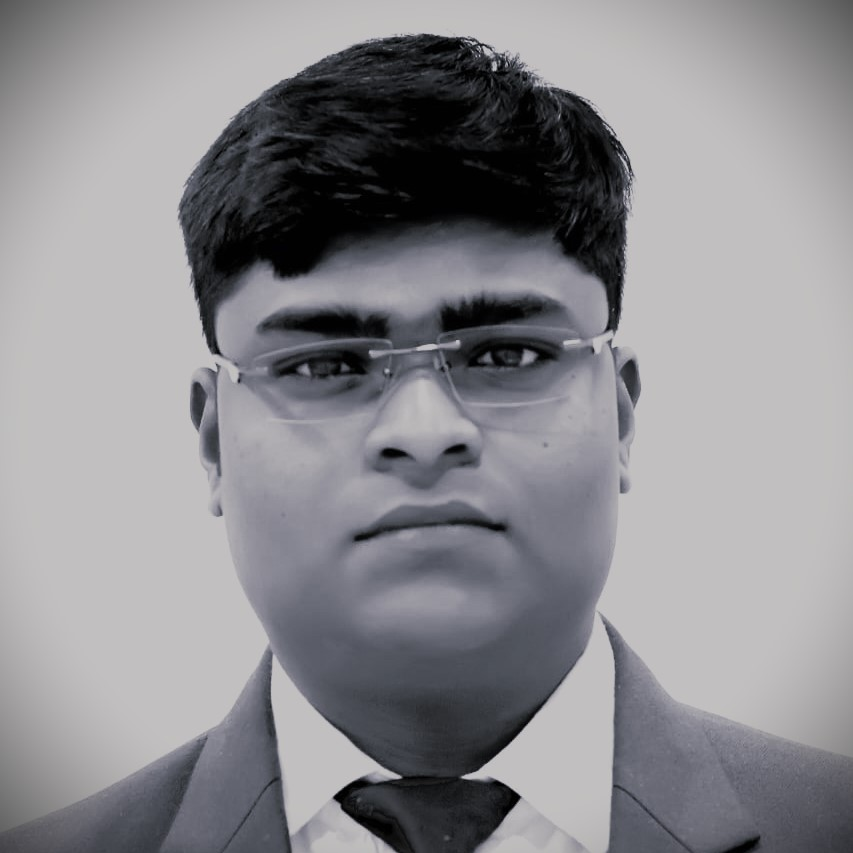
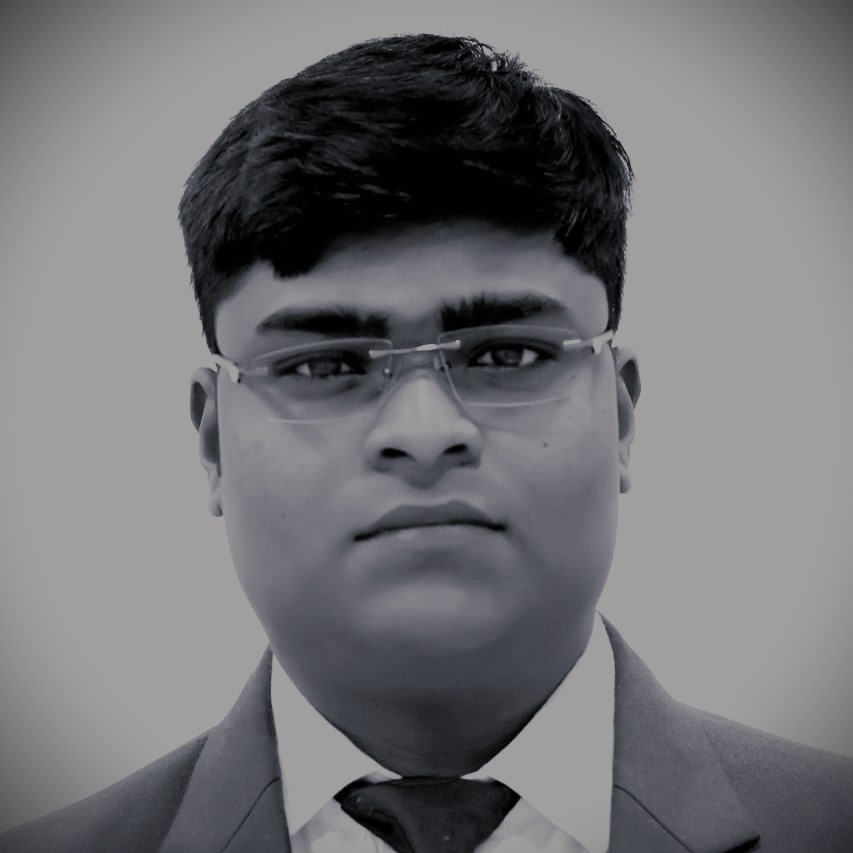
photo updated

diff --git a/index.html b/index.html
@@ -28,6 +28,15 @@
         <script src="https://oss.maxcdn.com/libs/html5shiv/3.7.0/html5shiv.js"></script>
         <script src="https://oss.maxcdn.com/libs/respond.js/1.4.2/respond.min.js"></script>
     <![endif]-->
+    <style>
+        p.small {
+          line-height: 0.7;
+        }
+        
+        p.big {
+          line-height: 1.8;
+        }
+        </style>
 
 </head>
 
@@ -171,8 +180,9 @@
                     <!-- Image Hover Block -->
                     <div class="member-img"> 
                     <!-- Image  --> 
-                    <img class="img-responsive" src="img/photo-1.png" alt=""> </div>
+                    <img class="img-responsive" src="img/photo-1.jpeg" alt=""> </div>
                     <!-- Member Details -->
+                    <p class ="big"></p>
                     <h4>Mohit Kenia</h4>
                     <!-- Designation --> 
                     <span class="pos"><!--CEO--></1--CEO--></span>
@@ -187,7 +197,8 @@
                     <!-- Image  --> 
                     <img class="img-responsive" src="img/photo-2.jpeg" alt=""> </div>
                     <!-- Member Details -->
-                    <h4>Abhishek Khambhata</h4>
+                    <p class ="big"></p>
+                    <h4>Abhishek Khambhata</h4> 
                     <!-- Designation --> 
                     <span class="pos"><!--Art Director--></span>
                     <div class="team-socials"> <a href="#"><i class="fa fa-facebook"></i></a> <a href="#"><i class="fa fa-google-plus"></i></a> <a href="#"><i class="fa fa-twitter"></i></a> <a href="#"><i class="fa fa-dribbble"></i></a> <a href="#"><i class="fa fa-github"></i></a> </div>
@@ -201,6 +212,7 @@
                     <!-- Image  --> 
                     <img class="img-responsive" src="img/photo-3.jpeg" alt=""> </div>
                     <!-- Member Details -->
+                    <p class ="big"></p>
                     <h4>Saurabh Patel</h4>
                     <!-- Designation --> 
                     <span class="pos"><!--Manager--></span>
@@ -215,6 +227,7 @@
                     <!-- Image  --> 
                     <img class="img-responsive" src="img/photo-4.jpeg" alt=""> </div>
                     <!-- Member Details -->
+                    <p class ="big"></p>
                     <h4>Dyushyant</h4>
                     <!-- Designation --> 
                     <span class="pos"><!--Creative--></span>
@@ -248,7 +261,7 @@
               <div class="heading text-center"> 
                 <!-- Heading -->
                 <h1>Contact Us</h1>
-                <p>There are many variations of passages of Lorem Ipsum available, but the majority have suffered.</p>
+                <p>We are happy to answer all of your questions. Just let us know how we can help by filling in the form below. <br>Our team will get back to you in the shortest possible delay.</p>
               </div>
             </div>
             <div class="row mrgn30">
@@ -259,16 +272,24 @@
                     <input type="text" class="form-control" name="name" id="name" placeholder="Enter name" title="Please enter your name (at least 2 characters)">
                   </div>
                   <div class="form-group">
-                    <label for="email">Email</label>
+                    <label for="email">Your email</label>
                     <input type="email" class="form-control" name="email" id="email" placeholder="Enter email" title="Please enter a valid email address">
+                  </div>
+                  <div class="form-group">
+                    <label for="company">Company</label>
+                    <input type="text" class="form-control" name="company" id="email" placeholder="Enter Company name" title="Please enter your company name">
+                  </div>
+                  <div class="form-group">
+                    <label for="phone">Phone</label>
+                    <input type="number" class="form-control" name="phone" id="email" placeholder="Enter phone number" title="Please enter a valid phone number">
                   </div>
                 </div>
                 <div class="col-sm-4">
                   <div class="form-group">
-                    <label for="comments">Comments</label>
-                    <textarea name="comment" class="form-control" id="comments" cols="3" rows="5" placeholder="Enter your message…" title="Please enter your message (at least 10 characters)"></textarea>
+                    <label for="comments">Message</label>
+                    <textarea name="comment" class="form-control" id="comments" cols="3" rows="9" placeholder="Let us know how we can help you…" title="Please enter your message (at least 10 characters)"></textarea>
                   </div>
-                  <button name="submit" type="submit" class="btn btn-lg btn-primary" id="submit">Submit</button>
+                  <button name="submit" type="submit" class="btn btn-lg btn-primary" id="submit" formaction=" " value="save" onClick=saving()>Submit</button>
                   <div class="result"></div>
                 </div>
               </form>
@@ -322,7 +343,7 @@
     <!-- Footer -->
     <footer>
         <div class="container text-center">
-            <p>InvenCo.ai 2023</p>
+            <p class="small">powered by InvenCo.ai 2023</p>
             <!--<p>Copyright &copy; InvenCo.ai 2023</p> -->
         </div>
     </footer>
